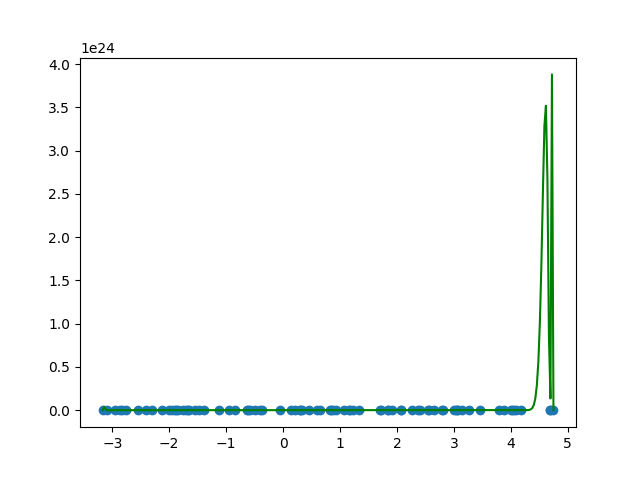
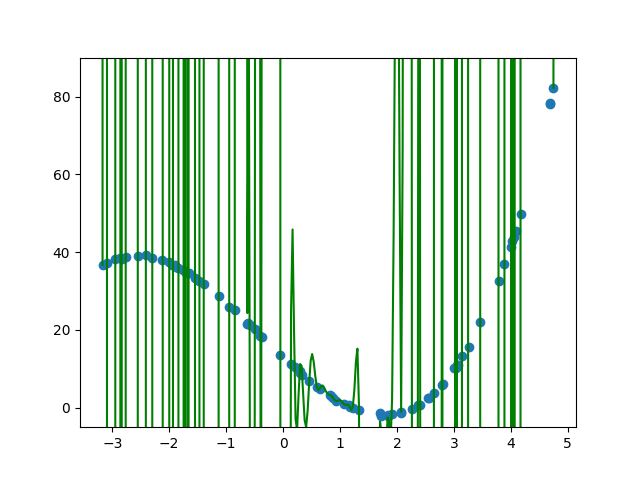
komentarze

diff --git a/AN/lista11/zad.py b/AN/lista11/zad.py
@@ -1,6 +1,5 @@
 import pandas as pd
 import numpy as np
-from PIL import Image
 import matplotlib.pyplot as plt
 from matplotlib.animation import FuncAnimation
 
@@ -34,20 +33,20 @@ def aproksymacja_sredniokwardratowa(x, n, xk, yk):
     wynikiDlaX.append(1)
     # P1 = x - c1 => 5n + 7
     c1 = sum(xk)/len(xk) # 3n + 3 - mnożeń, 2n - dodawań
-    wynikiWielomianow.append([xk[i] - c1 for i in range(len(xk))]) # (n+1)
-    wynikiDlaX.append((x-c1)) # 1
+    wynikiWielomianow.append([xk[i] - c1 for i in range(len(xk))]) # (n+1) odejmowań
+    wynikiDlaX.append((x-c1)) # 1 odejmowanie
     xQkQk = 0
     QkQk = 0
-    # PK = (x - ck)Qk - dkQk-1 => 
-    prevQkQk = iloczyn(wynikiWielomianow[0], wynikiWielomianow[0])
+    # PK = (x - ck)Qk - dkQk-1 => (n-1)((9n+9)+6)
+    prevQkQk = len(xk) # z pamięci
     for i in range(2, n+1):
-        xQkQk = iloczyn(xk, wynikiWielomianow[i-1], wynikiWielomianow[i-1])
-        QkQk = iloczyn(wynikiWielomianow[i-1], wynikiWielomianow[i-1])
-        ck = xQkQk/QkQk
-        dk = QkQk/prevQkQk
-        Qk = [(xk[j] - ck)*wynikiWielomianow[i-1][j] - dk*wynikiWielomianow[i-2][j] for j in range(len(xk))]
+        xQkQk = iloczyn(xk, wynikiWielomianow[i-1], wynikiWielomianow[i-1]) # 3(n+1) mnożeń, n dodawań
+        QkQk = iloczyn(wynikiWielomianow[i-1], wynikiWielomianow[i-1]) # 2(n+1) mnożeń, n dodawań
+        ck = xQkQk/QkQk # 1 dzielenie
+        dk = QkQk/prevQkQk # 1 dzielenie
+        Qk = [(xk[j] - ck)*wynikiWielomianow[i-1][j] - dk*wynikiWielomianow[i-2][j] for j in range(len(xk))] # (n+1)*( 2 mnożenia, 2 dodawania)
         wynikiWielomianow.append(Qk)
-        wynikiDlaX.append((x - ck)*wynikiDlaX[i-1] - dk*wynikiDlaX[i-2])
+        wynikiDlaX.append((x - ck)*wynikiDlaX[i-1] - dk*wynikiDlaX[i-2]) # 2 mnożenia, 2 dodawania
         prevQkQk = QkQk
 
     wspolczynniki = []
@@ -72,8 +71,8 @@ ax.plot(Xpoints, f(Xpoints), color='red')
 fig.savefig('a.png')
 ax.cla()
 
-plt.ylim(-5, 90)
 ax.scatter(df['x'], df['y'])
+plt.ylim(-5, 90)
 ax.plot(Xpoints, Lagrange(Xpoints, df['x'], df['y']), color='green')
 fig.savefig('b.png')
 ax.cla()
